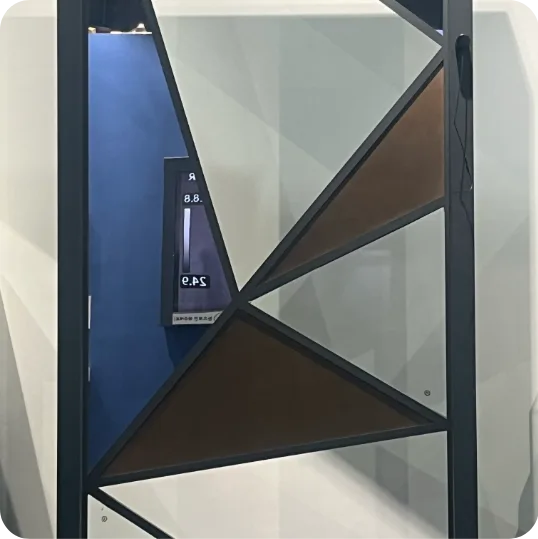
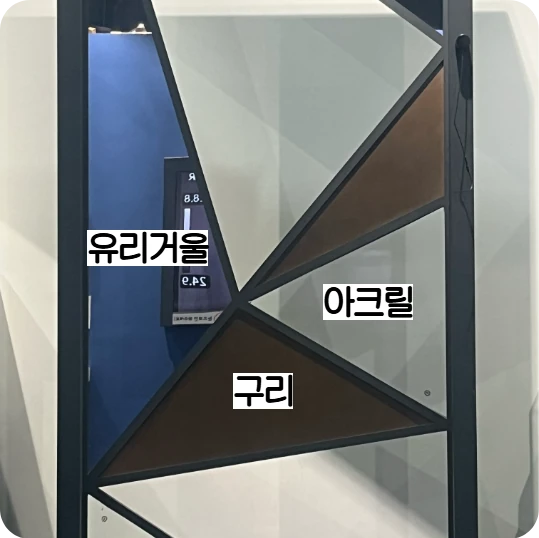
fix: Q10 정답/해설 수정 + 이미지 교체
- 정답: 유리거울 → 구리
- 해설을 구리의 열전도율 관점으로 갱신
- 새 사진(KakaoTalk_Photo) 크롭→WebP 변환 후 q10-plates.webp 교체

diff --git a/src/data.ts b/src/data.ts
@@ -139,8 +139,8 @@ export const questions: Question[] = [
     question:
       "다음 세 가지 판 (아크릴, 유리거울, 구리 판)에 손바닥을 찍은 후 적외선 카메라 화면을 확인해보세요. 손자국이 보이지 않는 판은 무엇일까요?",
     image: "/assets/q10-plates.webp",
-    answers: ["유리거울", "유리 거울", "거울"],
+    answers: ["구리", "구리판", "구리 판"],
     explanation:
-      "유리거울 표면은 적외선을 반사해서, 카메라에 손의 열이 직접 잡히지 않아요.",
+      "구리는 열전도율이 매우 높은 금속이라 손이 닿은 순간 생긴 열이 빠르게 주변으로 퍼집니다. 그 결과 표면의 온도 차이가 금방 사라져 적외선 카메라로도 손자국이 잘 남지 않습니다.",
   },
 ];
